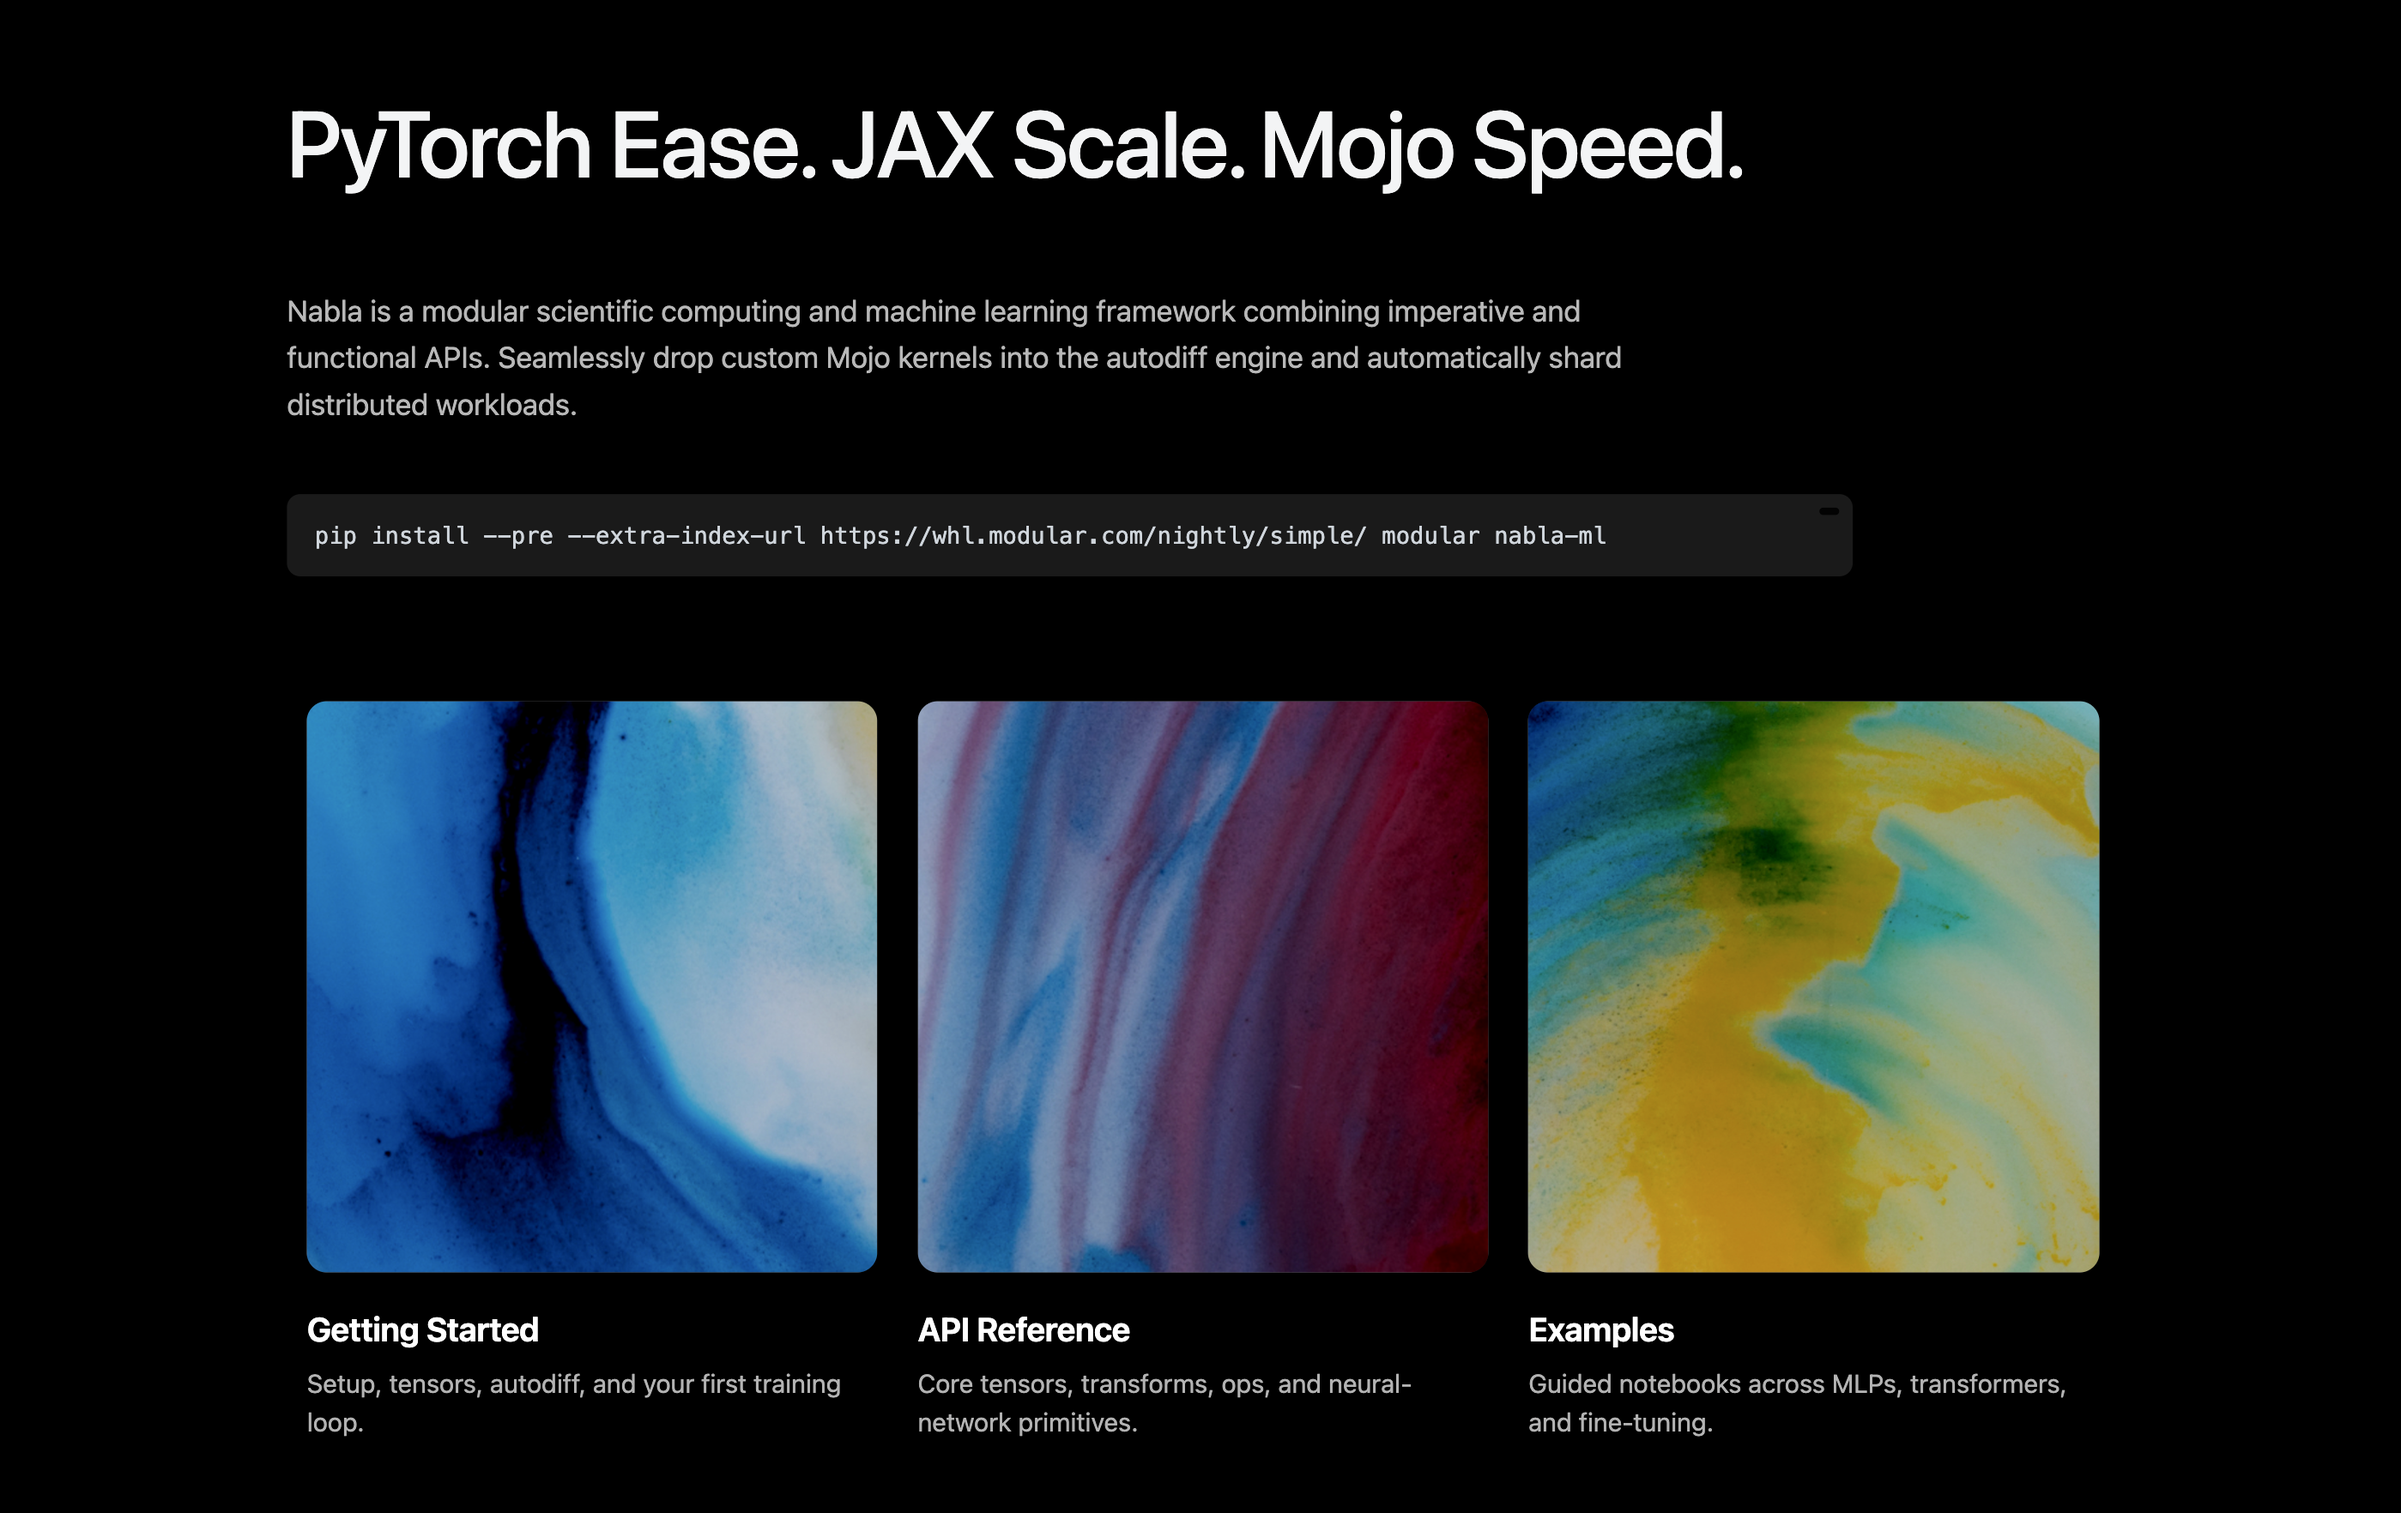
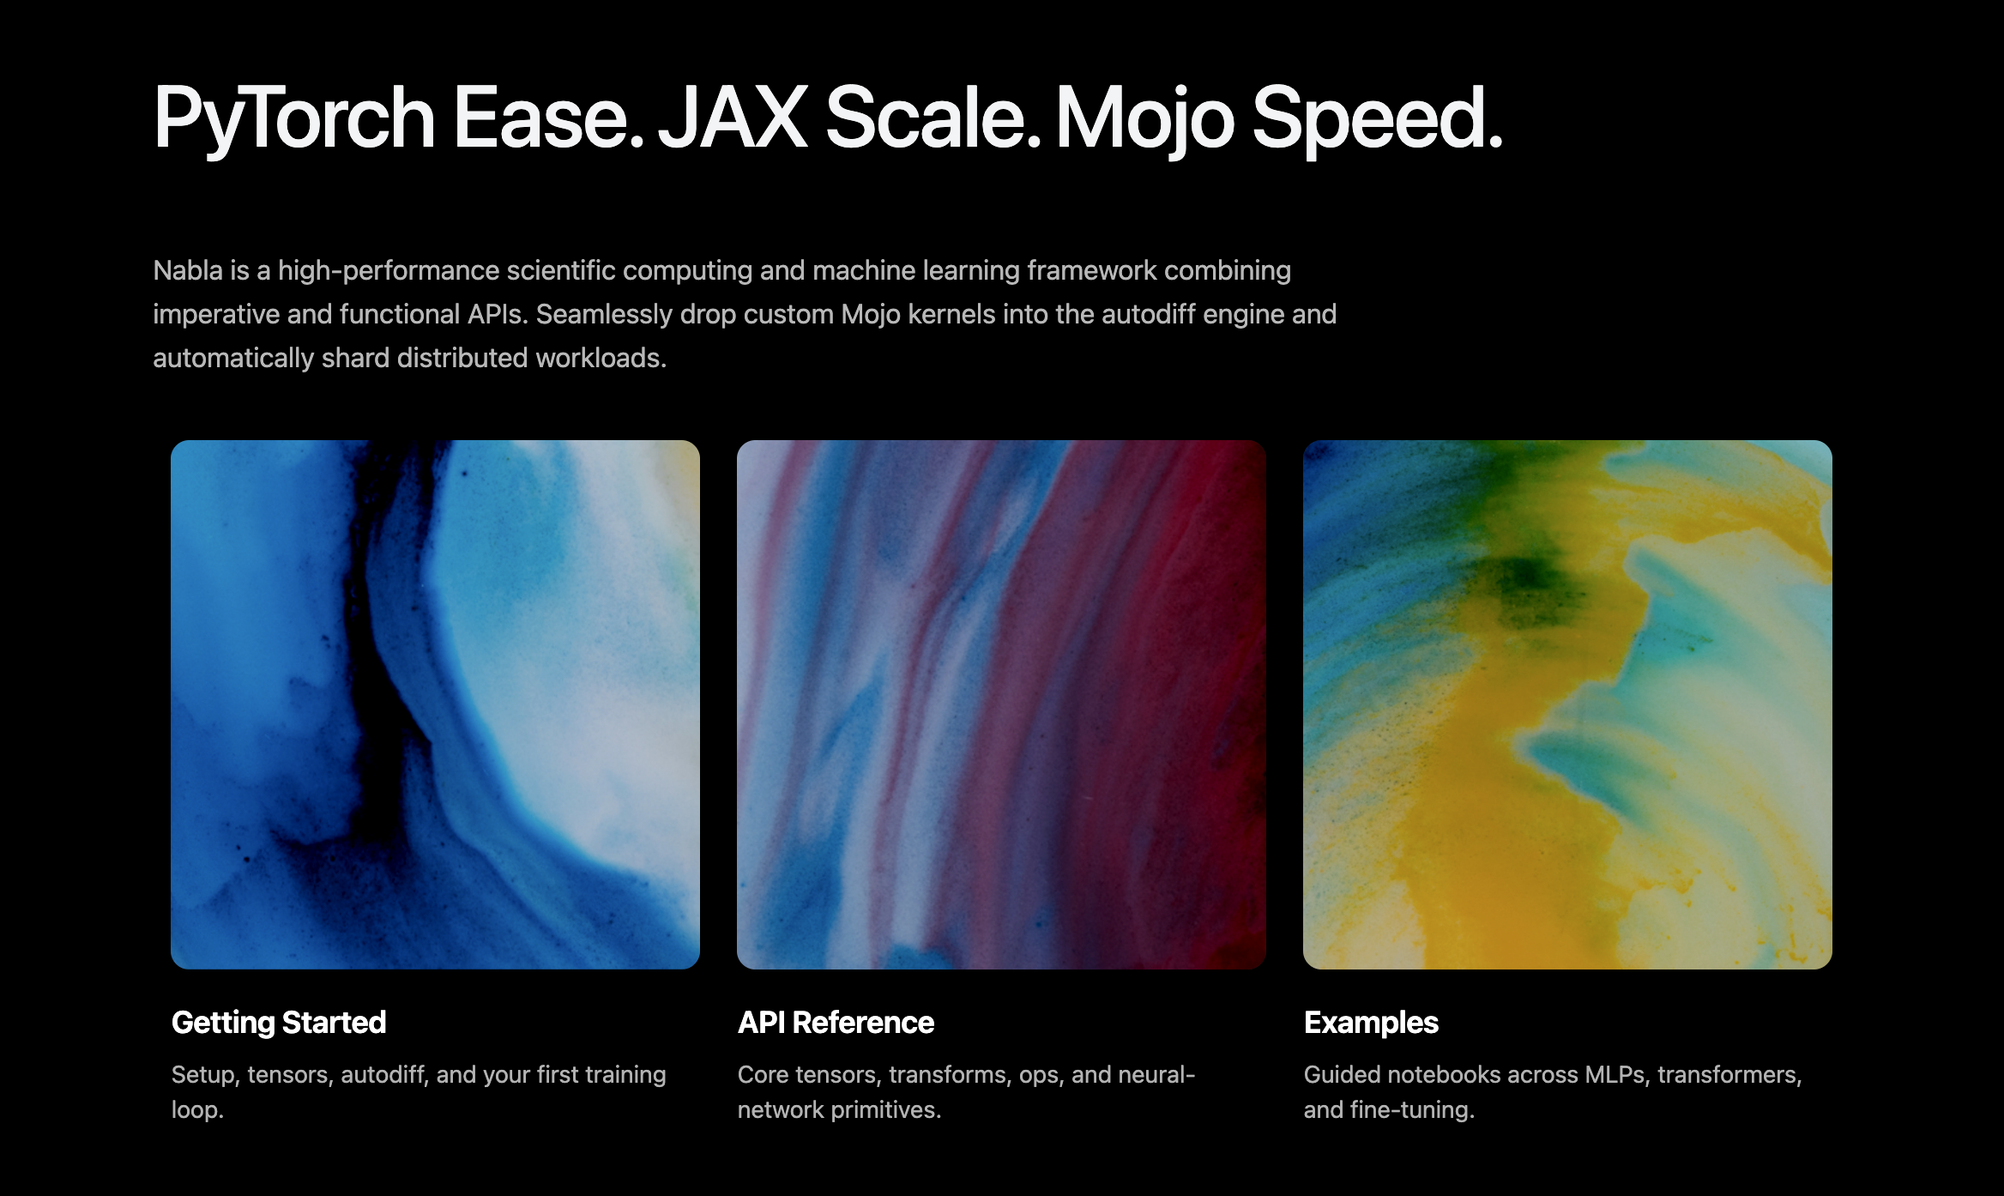
refactor: update branding from 'Nabla ML' to 'Nabla', refine project descriptions, and adjust documentation layout.

diff --git a/docs/_templates/layout.html b/docs/_templates/layout.html
@@ -4,27 +4,38 @@
 
 {%- set page_description -%}
 {%- if pagename == 'index' -%}
-Nabla is a high-performance Python ML framework with automatic differentiation, JIT compilation, SPMD sharding, and GPU acceleration built on Mojo and MAX. A fast JAX alternative with LoRA/QLoRA fine-tuning support.
+Nabla is a high-performance Python ML framework with automatic differentiation, JIT compilation, SPMD sharding, and GPU
+acceleration built on Mojo and MAX. A fast JAX alternative with LoRA/QLoRA fine-tuning support.
 {%- elif 'finetune' in pagename -%}
-LoRA and QLoRA fine-tuning API reference for Nabla ML. Parameter-efficient fine-tuning with NF4 quantization, adapter merging, and checkpoint management.
+LoRA and QLoRA fine-tuning API reference for Nabla. Parameter-efficient fine-tuning with NF4 quantization, adapter
+merging, and checkpoint management.
 {%- elif 'nn_optim' in pagename or 'optim' in pagename -%}
-Optimizer API reference for Nabla ML: AdamW, SGD, and functional optimizer APIs for distributed training with automatic differentiation.
+Optimizer API reference for Nabla: AdamW, SGD, and functional optimizer APIs for distributed training with automatic
+differentiation.
 {%- elif 'nn_modules' in pagename or 'modules' in pagename -%}
-Neural network modules for Nabla ML: Linear, LayerNorm, MultiHeadAttention, Transformer layers, and more. PyTorch-like API with Mojo acceleration.
+Neural network modules for Nabla: Linear, LayerNorm, MultiHeadAttention, Transformer layers, and more. PyTorch-like API
+with Mojo acceleration.
 {%- elif 'nn_functional' in pagename -%}
-Functional neural network API for Nabla: stateless layer functions, loss functions (cross-entropy, MSE), and weight initialization (Xavier, He).
+Functional neural network API for Nabla: stateless layer functions, loss functions (cross-entropy, MSE), and weight
+initialization (Xavier, He).
 {%- elif 'transforms' in pagename -%}
-Function transformations in Nabla: grad, vmap, JIT compile, vjp, jvp, jacrev, jacfwd, and shard_map for distributed SPMD computation.
+Function transformations in Nabla: grad, vmap, JIT compile, vjp, jvp, jacrev, jacfwd, and shard_map for distributed SPMD
+computation.
 {%- elif 'sharding' in pagename -%}
-SPMD sharding API for Nabla: DeviceMesh, PartitionSpec, and automatic tensor sharding for distributed multi-GPU training.
+SPMD sharding API for Nabla: DeviceMesh, PartitionSpec, and automatic tensor sharding for distributed multi-GPU
+training.
 {%- elif 'testing' in pagename -%}
-Testing utilities for Nabla ML: assert_allclose for cross-framework numeric validation and batch_realize for pytree tensor realization.
+Testing utilities for Nabla: assert_allclose for cross-framework numeric validation and batch_realize for pytree tensor
+realization.
 {%- elif 'api/' in pagename -%}
-API reference for {{ title_plain }} in the Nabla ML framework. Functions, classes, and examples for high-performance machine learning with Mojo.
+API reference for {{ title_plain }} in the Nabla framework. Functions, classes, and examples for high-performance
+machine learning with Mojo.
 {%- elif 'examples/' in pagename -%}
-{{ title_plain }} — step-by-step Nabla ML tutorial with code examples for automatic differentiation, GPU training, and distributed computing.
+{{ title_plain }} — step-by-step Nabla tutorial with code examples for automatic differentiation, GPU training, and
+distributed computing.
 {%- else -%}
-{{ title_plain }} — Nabla ML high-performance framework for automatic differentiation, JIT compilation, SPMD sharding, and GPU acceleration.
+{{ title_plain }} — Nabla high-performance framework for automatic differentiation, JIT compilation, SPMD sharding, and
+GPU acceleration.
 {%- endif -%}
 {%- endset -%}
 
@@ -32,13 +43,17 @@ API reference for {{ title_plain }} in the Nabla ML framework. Functions, classe
 {%- if pagename == 'index' -%}
 Nabla — High-Performance Scientific Computing
 {%- elif 'finetune' in pagename -%}
-LoRA & QLoRA Fine-Tuning API — Nabla ML
+LoRA & QLoRA Fine-Tuning API — Nabla
+{%- elif 'api/index' in pagename -%}
+API Reference — Nabla
 {%- elif 'api/' in pagename -%}
-{{ title_plain }} API Reference — Nabla ML
+{{ title_plain }} API Reference — Nabla
+{%- elif 'examples/index' in pagename -%}
+Examples & Tutorials — Nabla
 {%- elif 'examples/' in pagename -%}
-{{ title_plain }} Tutorial — Nabla ML
+{{ title_plain }} Tutorial — Nabla
 {%- else -%}
-{{ title_plain }} — Nabla ML
+{{ title_plain }} — Nabla
 {%- endif -%}
 {%- endset -%}
 
@@ -49,11 +64,12 @@ LoRA & QLoRA Fine-Tuning API — Nabla ML
 
 {%- block extrahead %}
 {% if pagename == 'index' %}
-<script>(function(){document.documentElement.classList.add('home-landing');})();</script>
+<script>(function () { document.documentElement.classList.add('home-landing'); })();</script>
 {% endif %}
 <!-- SEO Meta Tags -->
 <meta name="description" content="{{ page_description_plain|e }}" />
-<meta name="keywords" content="nabla, machine learning framework, automatic differentiation, autodiff, JIT compilation, GPU computing, SPMD sharding, distributed training, deep learning, Mojo language, MAX engine, JAX alternative, PyTorch alternative, LoRA, QLoRA, fine-tuning, tensor operations, neural networks, pipeline parallelism, model parallelism, vmap, grad, {{ title_plain|lower|e }}" />
+<meta name="keywords"
+  content="nabla, machine learning framework, automatic differentiation, autodiff, JIT compilation, GPU computing, SPMD sharding, distributed training, deep learning, Mojo language, MAX engine, JAX alternative, PyTorch alternative, LoRA, QLoRA, fine-tuning, tensor operations, neural networks, pipeline parallelism, model parallelism, vmap, grad, {{ title_plain|lower|e }}" />
 <meta name="author" content="Nabla ML" />
 <meta name="robots" content="index, follow, max-snippet:-1, max-image-preview:large, max-video-preview:-1" />
 <meta name="googlebot" content="index, follow" />
@@ -71,7 +87,7 @@ LoRA & QLoRA Fine-Tuning API — Nabla ML
 <meta property="og:image:height" content="630" />
 <meta property="og:image:alt" content="Nabla — High-Performance Machine Learning Framework" />
 <meta property="og:description" content="{{ page_description_plain|e }}" />
-<meta property="og:site_name" content="Nabla ML" />
+<meta property="og:site_name" content="Nabla" />
 <meta property="og:locale" content="en_US" />
 
 <!-- Twitter Card Meta Tags -->
@@ -87,7 +103,7 @@ LoRA & QLoRA Fine-Tuning API — Nabla ML
 {
   "@context": "https://schema.org",
   "@type": "WebSite",
-  "name": "Nabla ML Documentation",
+  "name": "Nabla Documentation",
   "url": "{{ base_url }}",
   "potentialAction": {
     "@type": "SearchAction",
@@ -104,7 +120,7 @@ LoRA & QLoRA Fine-Tuning API — Nabla ML
   "@context": "https://schema.org",
   {% if pagename == 'index' -%}
   "@type": "SoftwareApplication",
-  "name": "Nabla ML",
+  "name": "Nabla",
   "applicationCategory": "DeveloperApplication",
   "applicationSubCategory": "Machine Learning Framework",
   "operatingSystem": "Linux, macOS",

diff --git a/docs/index.md b/docs/index.md
@@ -14,13 +14,8 @@ api/index
 
 ::::{div} landing-hero
 <h1 class="landing-title">PyTorch Ease. JAX Scale. Mojo Speed.</h1>
-<p class="landing-subtitle">Nabla is a modular scientific computing and machine learning framework combining imperative and functional APIs. Seamlessly drop custom Mojo kernels into the autodiff engine and automatically shard distributed workloads.</p>
+<p class="landing-subtitle">Nabla is a high-performance scientific computing and machine learning framework combining imperative and functional APIs. Seamlessly drop custom Mojo kernels into the autodiff engine and automatically shard distributed workloads.</p>
 
-::::{div} landing-install
-```bash
-pip install --pre --extra-index-url https://whl.modular.com/nightly/simple/ modular nabla-ml
-```
-::::
 ::::
 
 ::::{grid} 1 1 3 3
@@ -62,6 +57,13 @@ pip install --pre --extra-index-url https://whl.modular.com/nightly/simple/ modu
 <div class="card-title-bottom">Examples</div>
 <div class="card-subtitle">Guided notebooks across MLPs, transformers, and fine-tuning.</div>
 :::
+
+::::
+
+::::{div} landing-install
+```bash
+pip install --pre --extra-index-url https://whl.modular.com/nightly/simple/ modular nabla-ml
+```
 ::::
 
 ## Why Nabla

diff --git a/README.md b/README.md
@@ -1,8 +1,7 @@
-# Nabla: High-Performance Scientific Computing
+# Nabla - High-Performance Scientific Computing
 
-> **A JAX-inspired autodiff library with factor-based SPMD sharding, built on [Mojo & MAX](https://www.modular.com/max).**
+> Nabla is a high-performance scientific computing and machine learning framework combining imperative and functional APIs. Seamlessly drop custom Mojo kernels into the autodiff engine and automatically shard distributed workloads, built on [Mojo & MAX](https://www.modular.com/max).
 
-> 
 > **Active Development**: This is the `main` development branch with distributed SPMD execution and a refined lazy, MAX-native execution model. Read the docs: [https://nablaml.com](https://nablaml.com).
 
 [![Development Status](https://img.shields.io/badge/status-alpha-orange)](https://github.com/nabla-ml/nabla)
